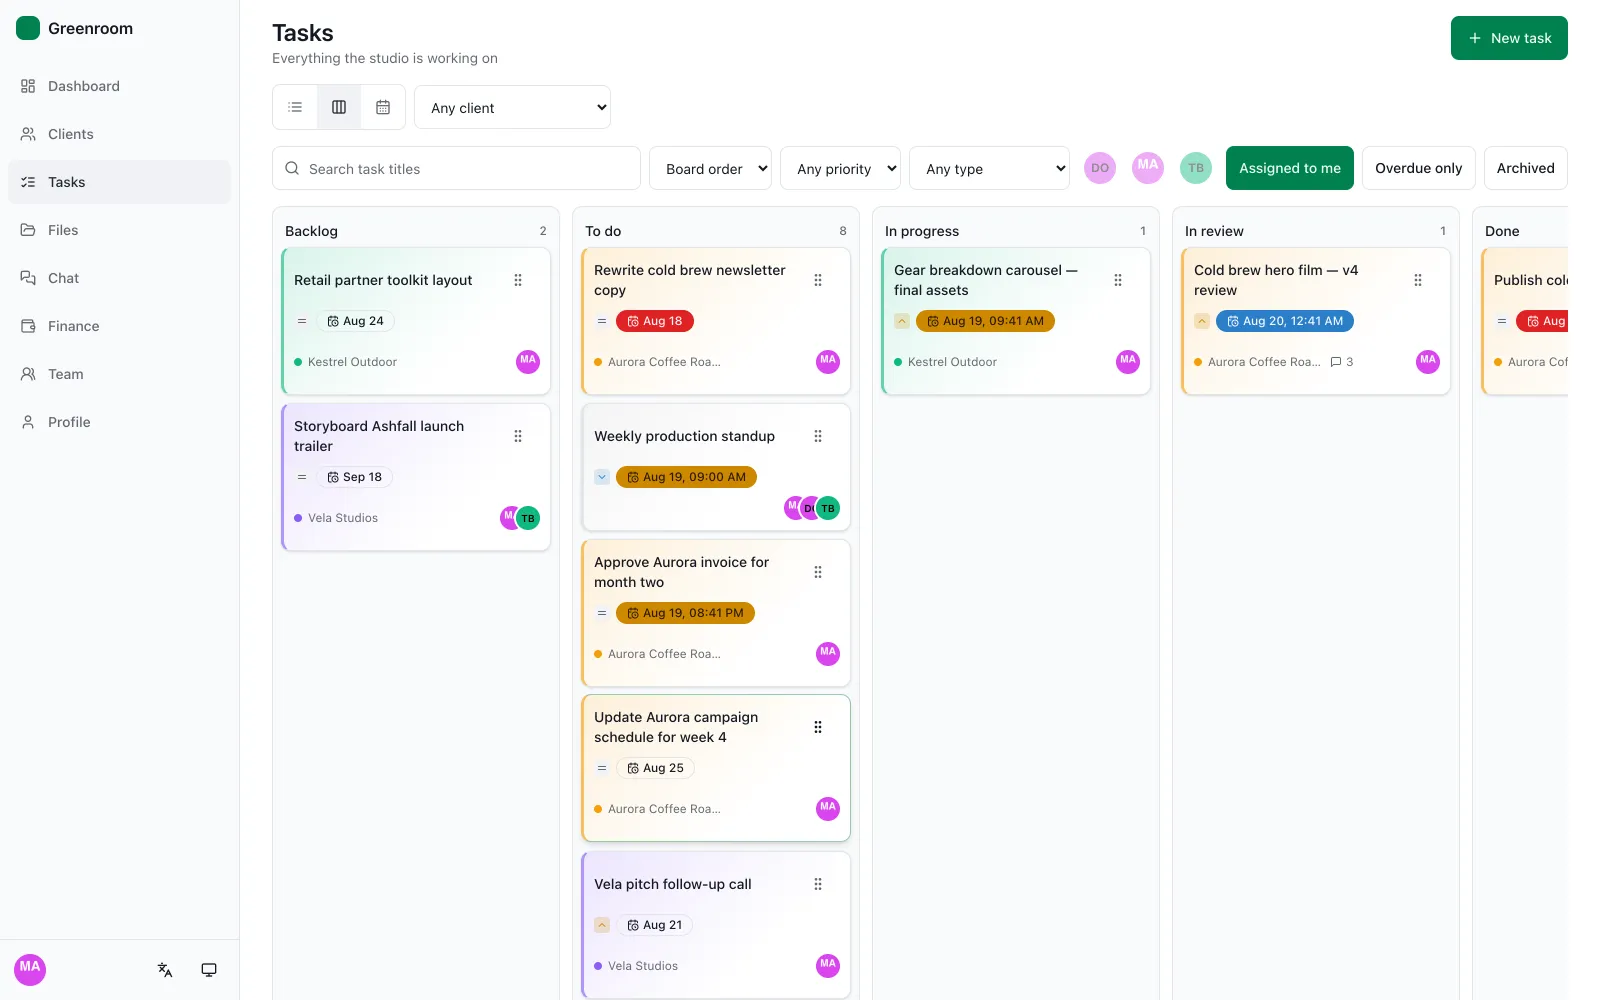
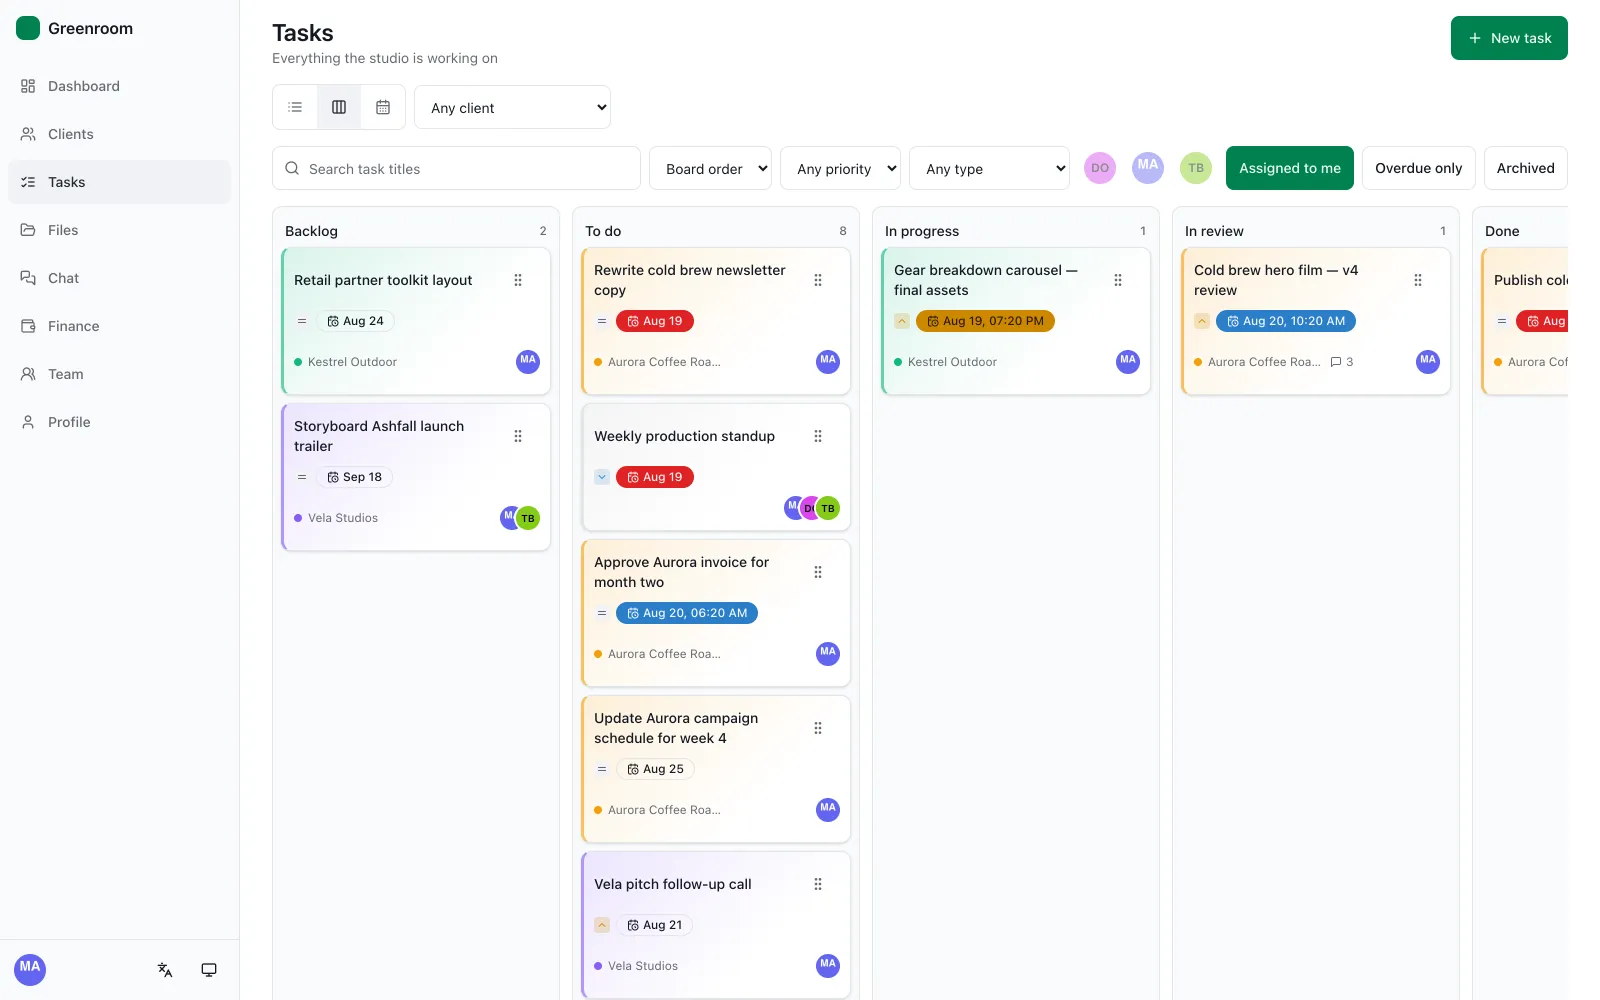
Centre the lightbox and refresh the Greenroom screenshots
The lightbox rendered in the top-left corner: the global `* { margin: 0 }`
reset overrides the UA stylesheet's `dialog { margin: auto }`, which is what
centres a modal against `inset: 0`. Restated explicitly so the centring does
not depend on a rule the reset is fighting.

Screenshots regenerated after improving the demo fixtures: the placeholder
art is now composed defocused imagery in each client's brand colour instead
of flat rectangles with the filename stamped across them, and the video is a
slow push across a still rather than ffmpeg colour bars.

diff --git a/assets/css/styles.css b/assets/css/styles.css
@@ -768,10 +768,21 @@ code {
   color: var(--ink-3);
 }
 
-/* Native <dialog>: Escape-to-close and focus trapping for free, no library. */
+/* Native <dialog>: Escape-to-close and focus trapping for free, no library.
+
+   `inset: 0` + `margin: auto` is what centres a modal dialog on both axes.
+   The UA stylesheet already sets both, but the global `* { margin: 0 }` reset
+   at the top of this file overrides the margin — which collapses the dialog
+   into the top-left corner. Restated here explicitly so the centring does not
+   depend on a rule the reset is fighting. */
 .lightbox {
-  max-width: min(96vw, 1400px);
-  max-height: 92vh;
+  position: fixed;
+  inset: 0;
+  margin: auto;
+  width: fit-content;
+  height: fit-content;
+  max-width: min(94vw, 1400px);
+  max-height: 90vh;
   padding: 0;
   border: 1px solid var(--line);
   border-radius: var(--radius);
@@ -779,7 +790,8 @@ code {
   overflow: hidden;
 }
 .lightbox::backdrop { background: rgba(6, 10, 14, 0.82); }
-.lightbox img { width: 100%; height: auto; max-height: 92vh; object-fit: contain; }
+.lightbox img { display: block; max-width: min(94vw, 1400px); max-height: 90vh;
+                width: auto; height: auto; object-fit: contain; }
 
 .lightbox-close {
   position: absolute;
